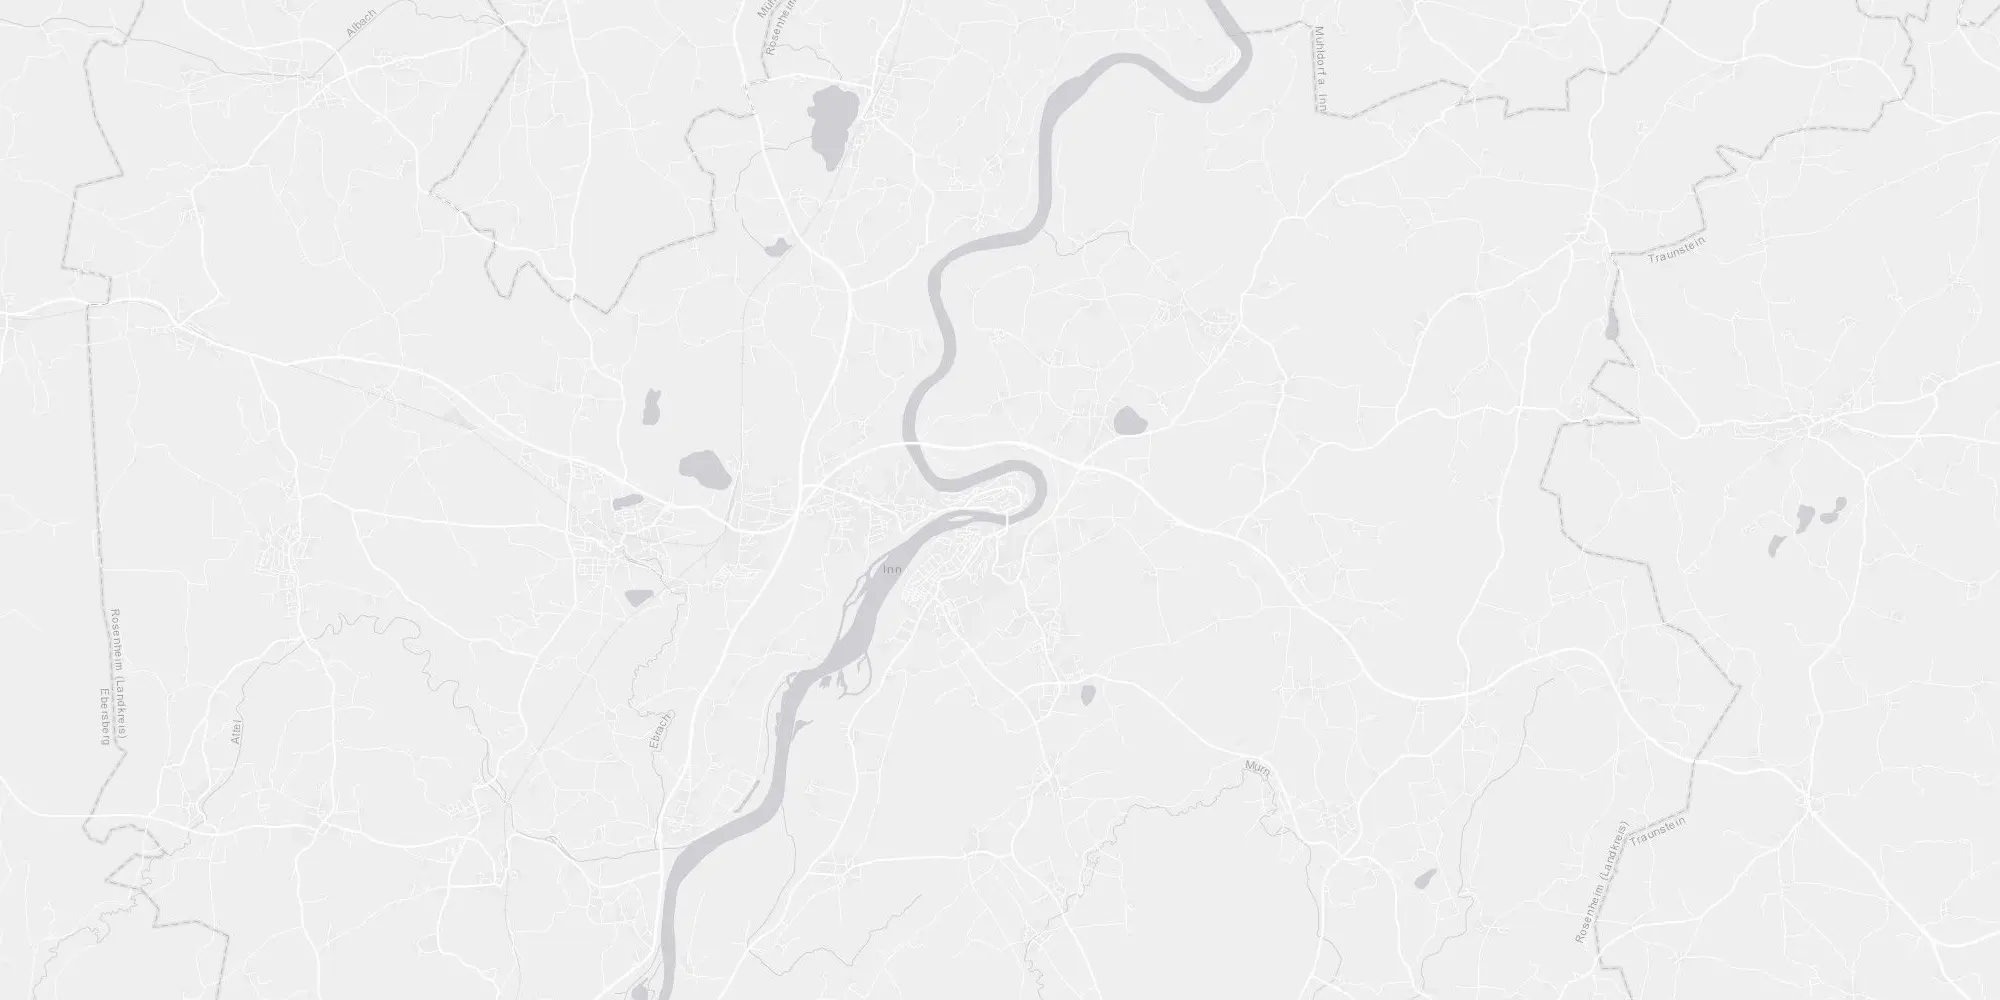
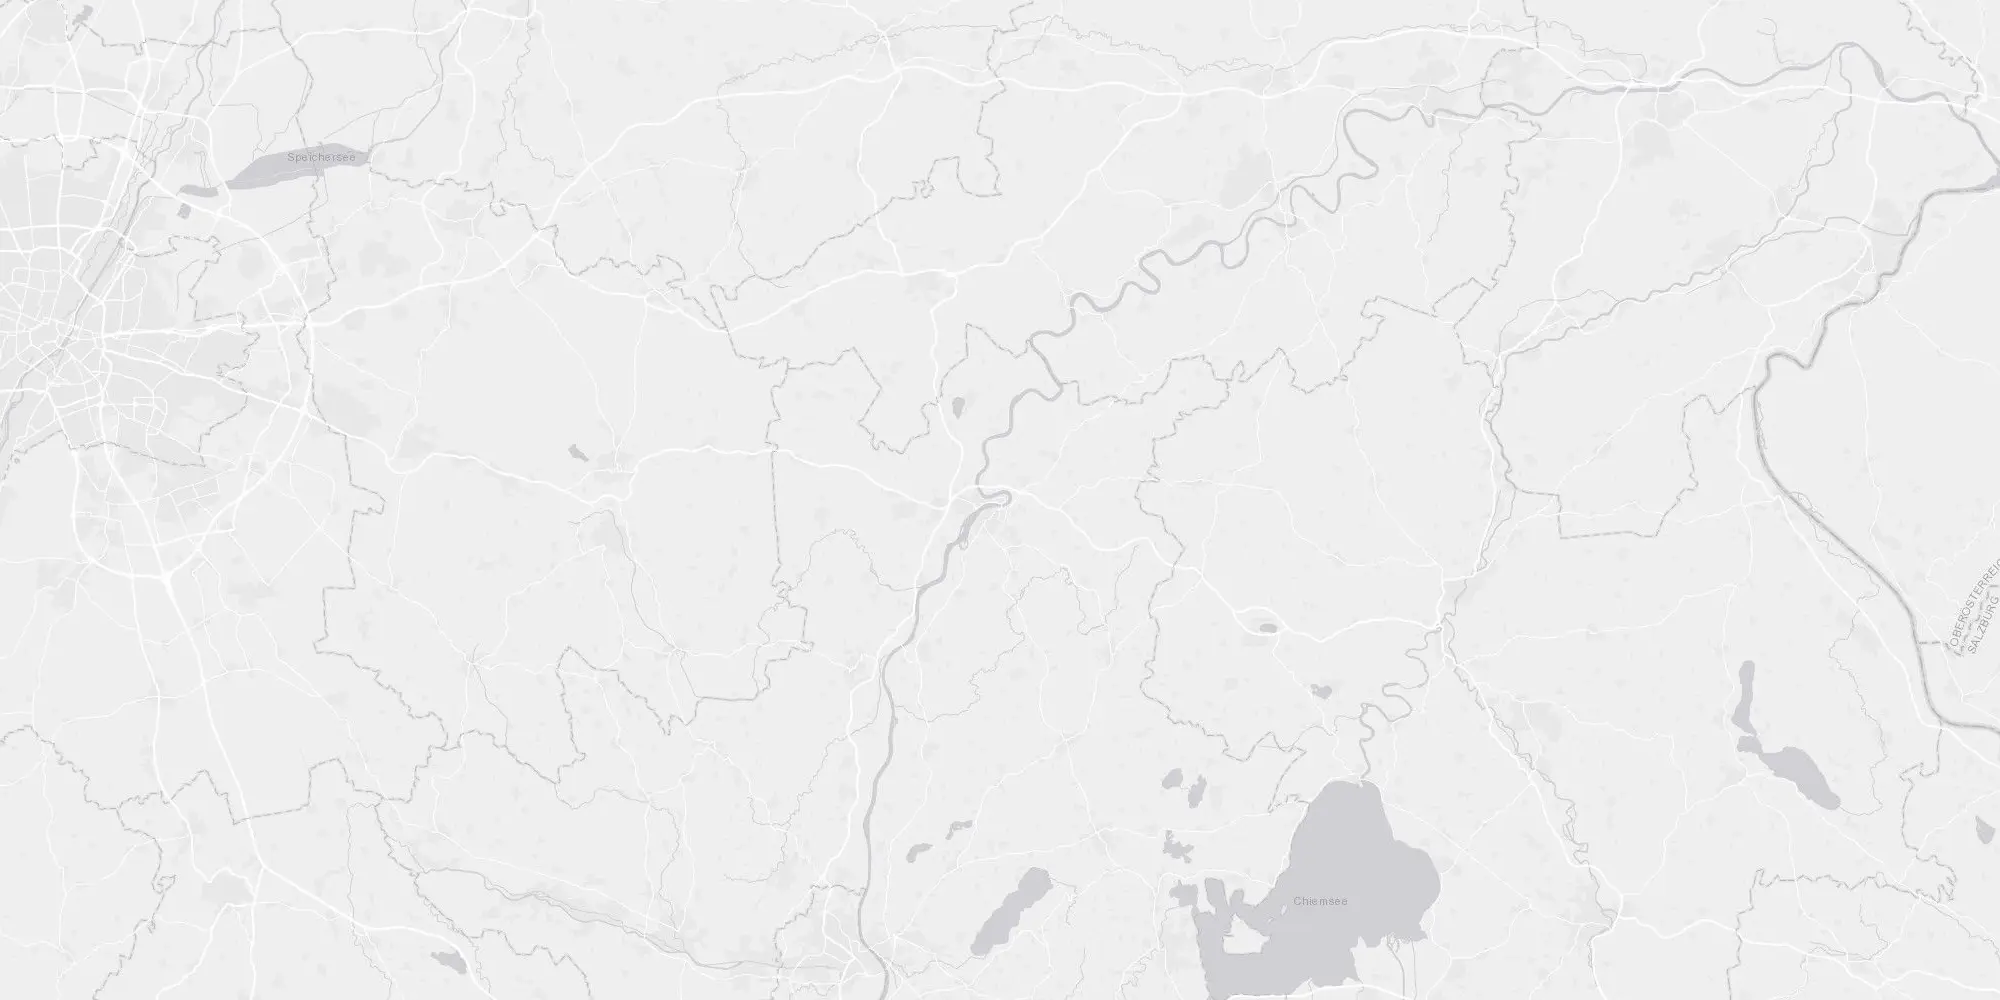
maps

diff --git a/pages/index.tsx b/pages/index.tsx
@@ -399,7 +399,7 @@ export async function getStaticProps() {
   )
   backgroundImageUrl.searchParams.append("width", "2000")
   backgroundImageUrl.searchParams.append("height", "1000")
-  backgroundImageUrl.searchParams.append("zoom", "13")
+  backgroundImageUrl.searchParams.append("zoom", "11")
   backgroundImageUrl.searchParams.append(
     "center",
     `${recentLocation.rows[0].lon},${recentLocation.rows[0].lat}`
@@ -460,7 +460,7 @@ export async function getStaticProps() {
     .slice(0, 9)
 
   return {
-    revalidate: 300,
+    revalidate: 3600,
     props: {
       posts: sortedContent,
       about: about.data.attributes,
